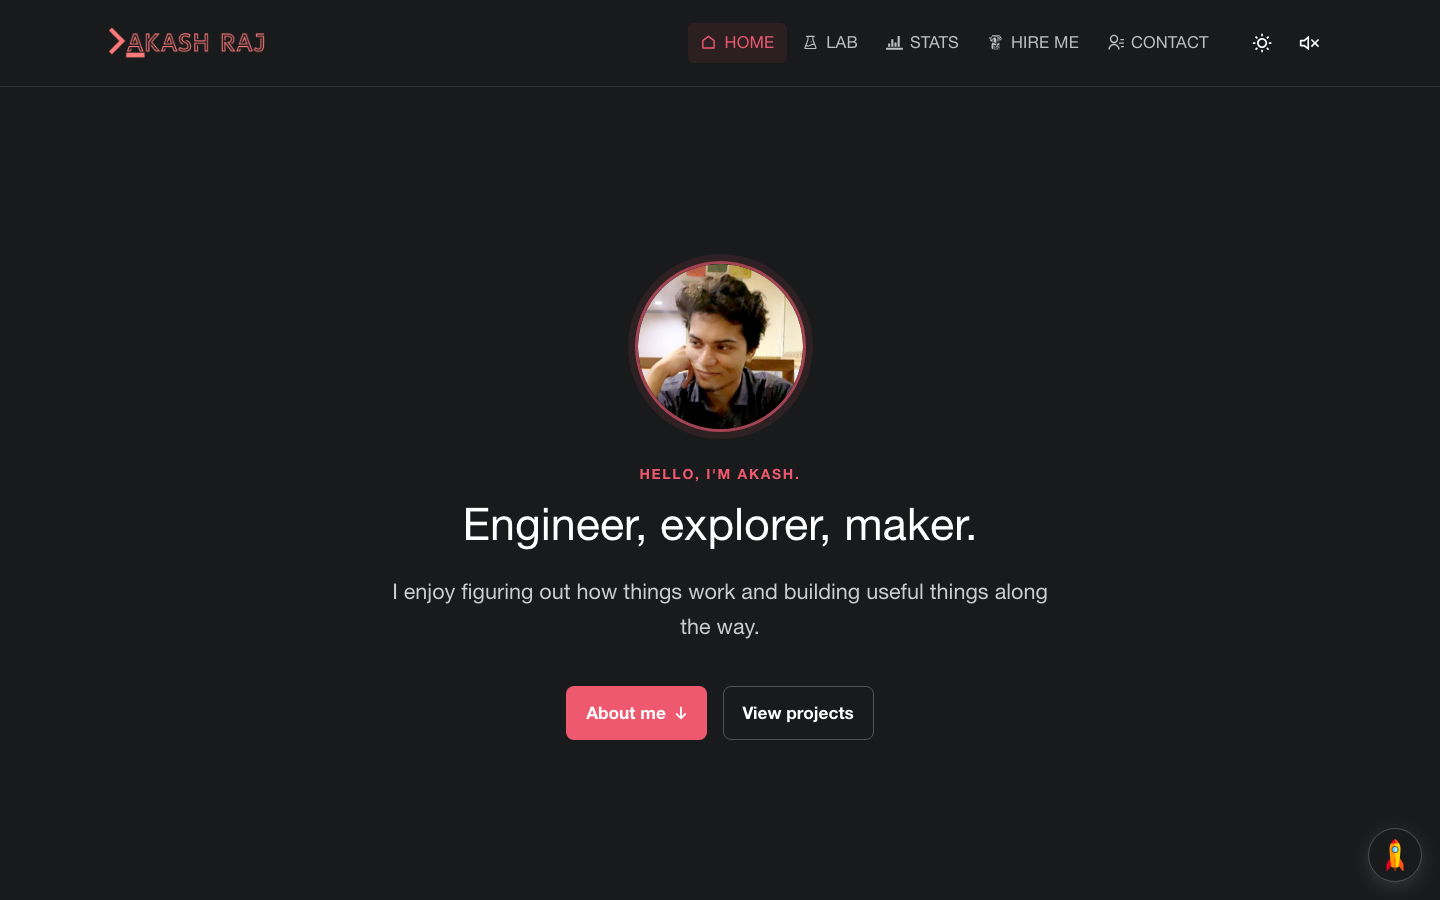
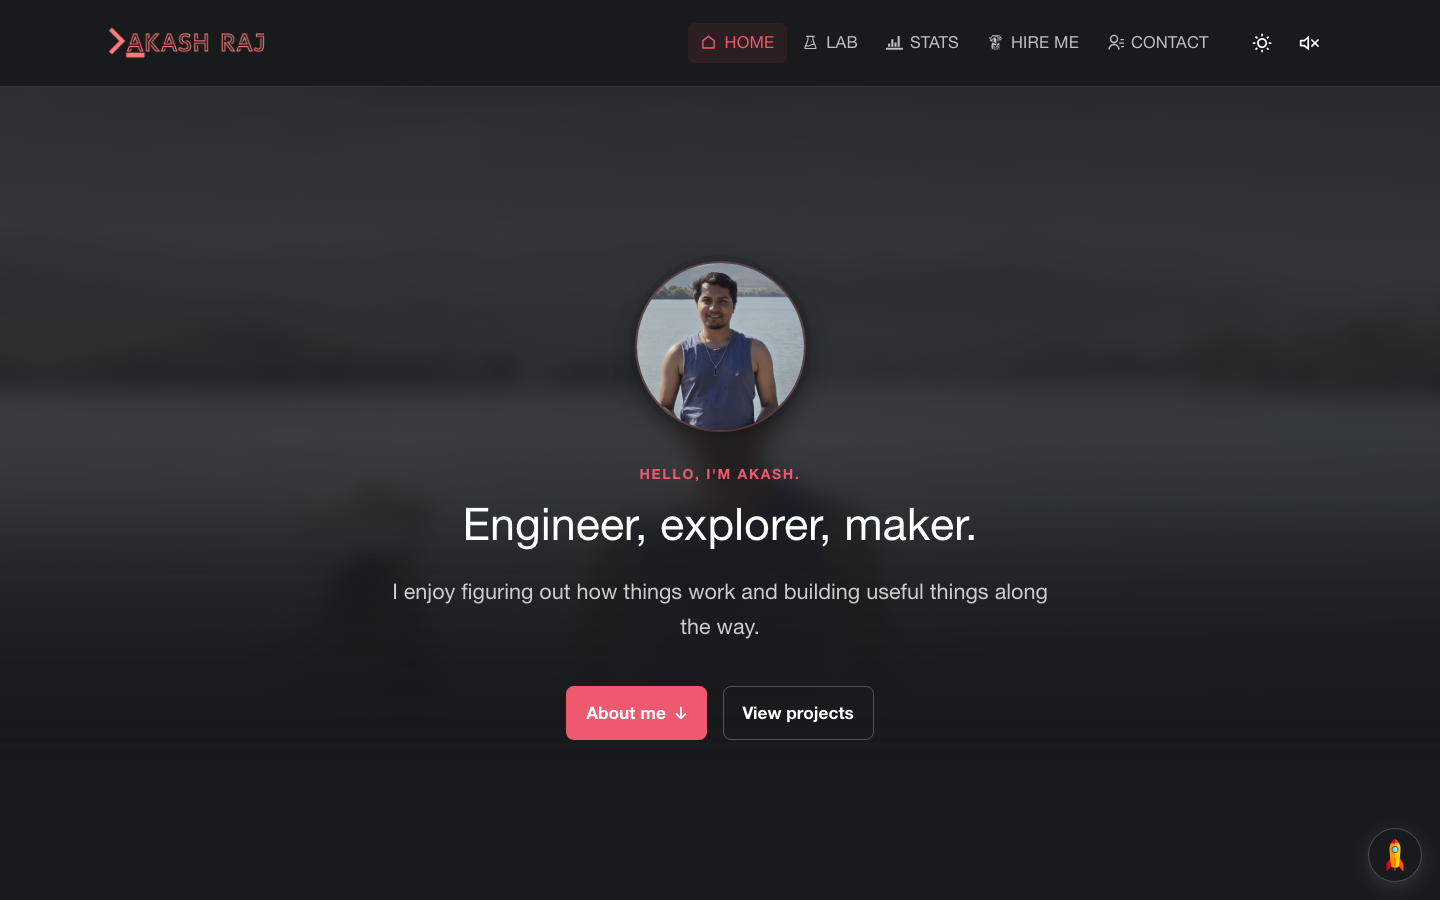
Update profile portrait presentation

Changed region(s): [[0.0, 0.1556, 1.0, 0.5911]]

diff --git a/src/assets/styles/pages/Home.scss b/src/assets/styles/pages/Home.scss
@@ -7,9 +7,25 @@
 	}
 
 	.home-hero {
+		position: relative;
+		overflow: hidden;
+		width: calc(100% + 4rem);
+		margin-left: -2rem;
 		min-height: min(48rem, calc(100vh - 4rem));
 		display: grid;
 		place-items: center;
+	}
+	.home-hero::before {
+		content: "";
+		position: absolute;
+		inset: 0;
+		background:
+			linear-gradient(to bottom, color.adjust($bg-color, $alpha: -0.16) 0%, color.adjust($bg-color, $alpha: -0.3) 42%, $bg-color 78%, $bg-color 100%),
+			url("../../img/me-scenery.jpg") center 24% / cover no-repeat;
+		opacity: 0.68;
+		-webkit-mask-image: linear-gradient(to bottom, black 0%, black 49%, transparent 82%);
+		mask-image: linear-gradient(to bottom, black 0%, black 49%, transparent 82%);
+		pointer-events: none;
 	}
 
 	.home-hero__content,
@@ -18,6 +34,8 @@
 	}
 
 	.home-hero__content {
+		position: relative;
+		z-index: 1;
 		text-align: center;
 	}
 	.home-portrait {
@@ -25,8 +43,11 @@
 		aspect-ratio: 1;
 		object-fit: cover;
 		border-radius: 50%;
-		border: 3px solid color.adjust($primary-color, $alpha: -0.35);
-		box-shadow: 0 0 0 7px color.adjust($primary-color, $alpha: -0.9);
+		filter: saturate(0.84) contrast(0.96) brightness(0.92);
+		border: 2px solid color.adjust($primary-color, $alpha: -0.68);
+		box-shadow:
+			0 10px 26px color.adjust($bg-color, $alpha: -0.18),
+			0 0 0 6px color.adjust($bg-color, $alpha: -0.82);
 		margin: 0 auto 1.75rem;
 	}
 	.home-hero__content.is-visible .home-portrait {
@@ -286,6 +307,8 @@
 
 	@media (max-width: 600px) {
 		.home-hero {
+			width: calc(100% + 2rem);
+			margin-left: -1rem;
 			min-height: calc(100svh - 3.5rem);
 		}
 		.home-actions {
